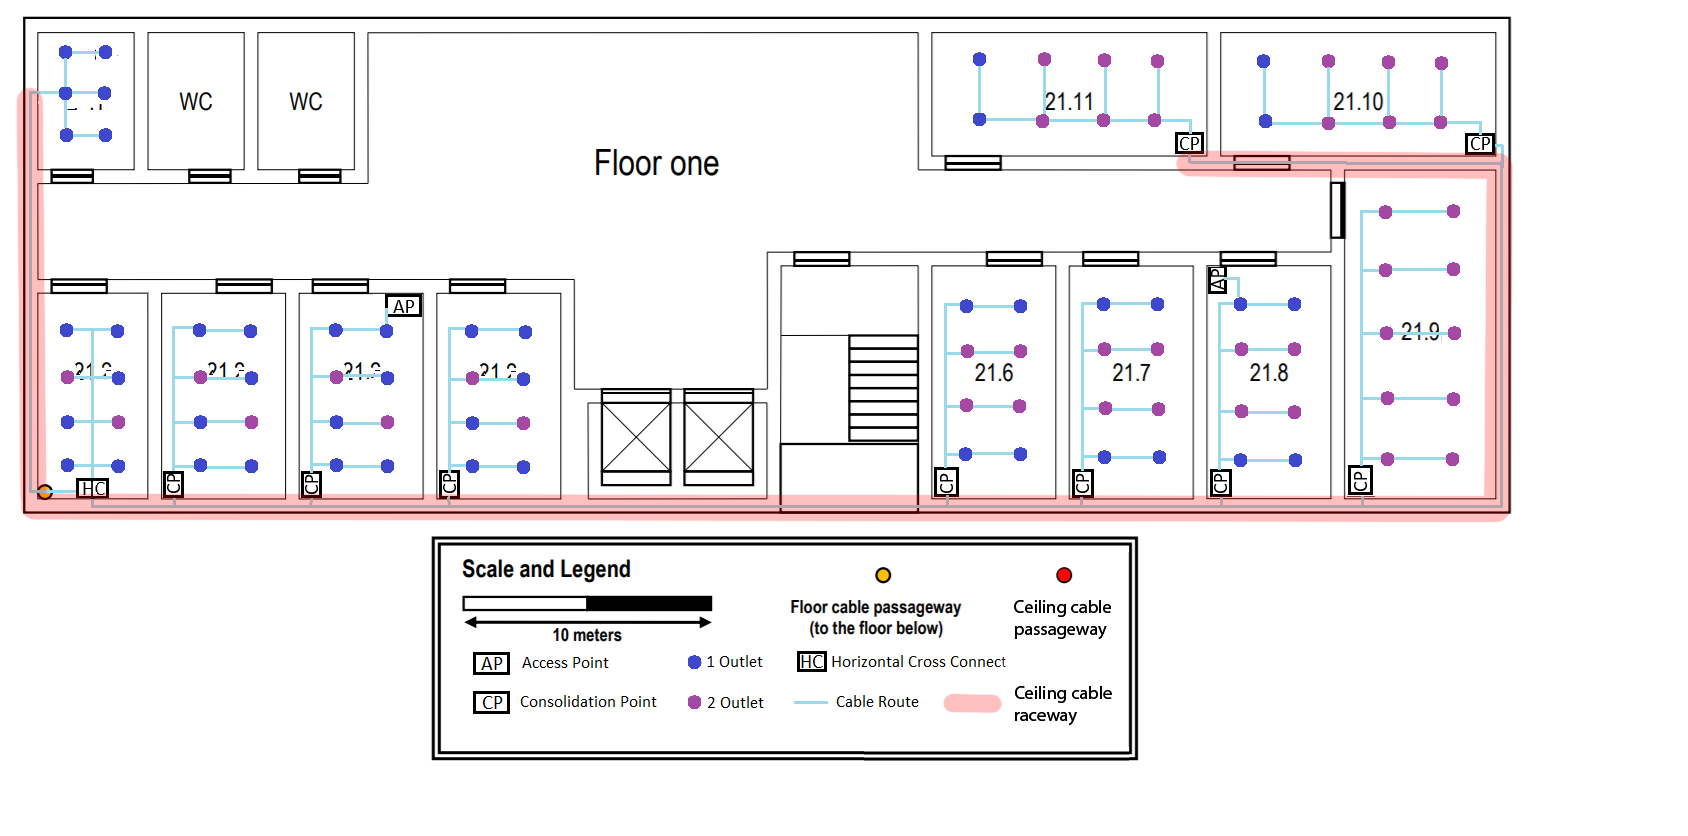
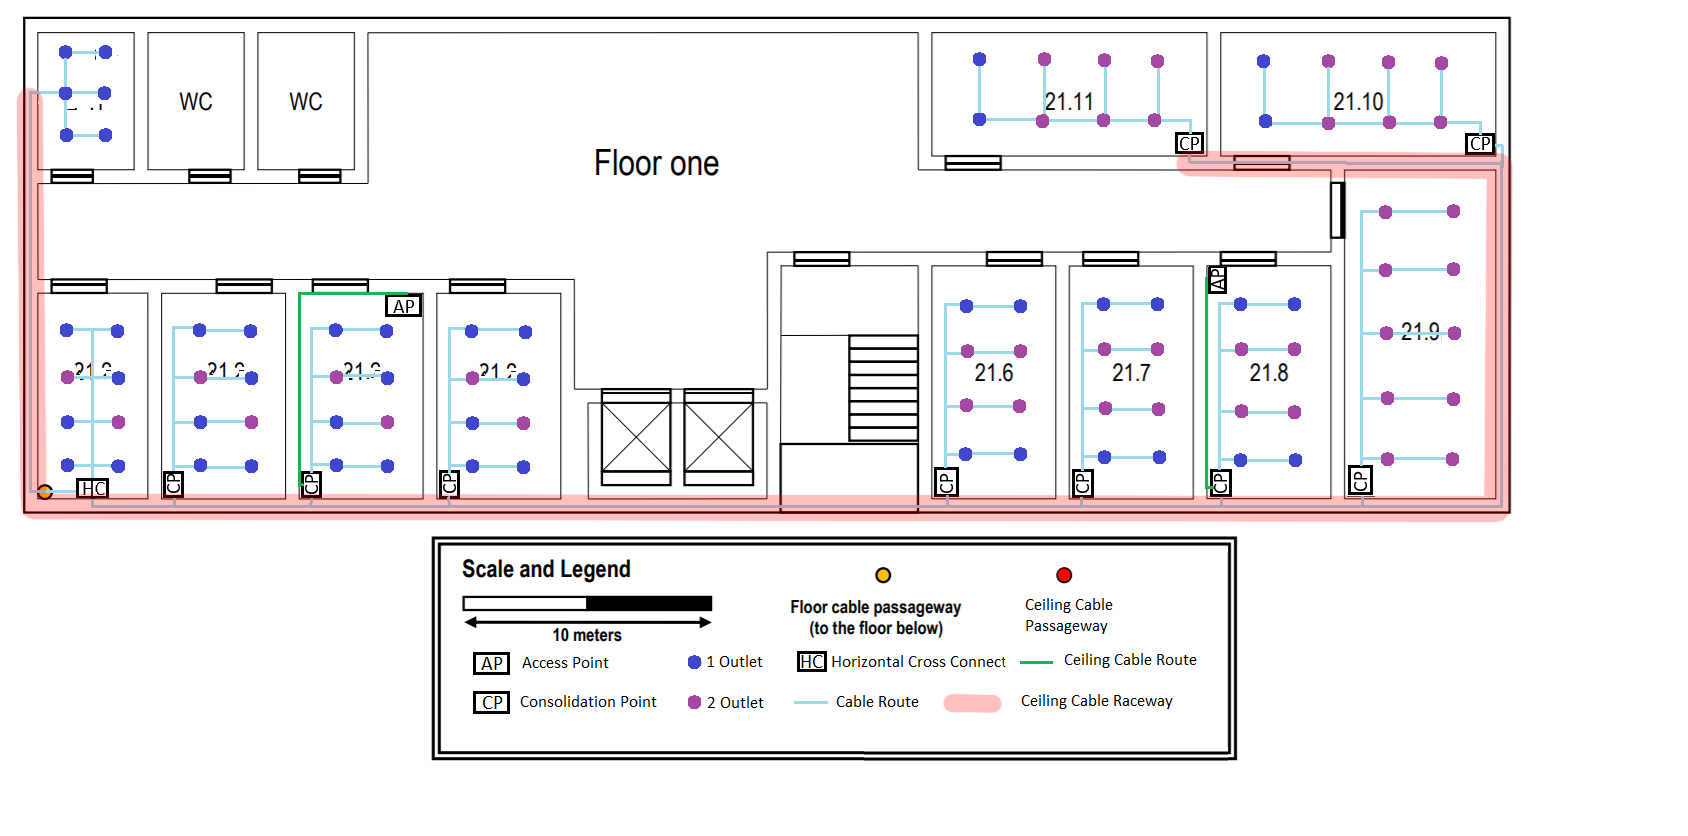
Adicionado retoques

Changed region(s): [[0.5853, 0.622, 0.7393, 0.933], [0.1848, 0.3421, 0.2464, 0.3732]]

diff --git a/doc/sprint1/1191430/README.md b/doc/sprint1/1191430/README.md
@@ -18,8 +18,6 @@ I decided to put the HC and the IC in the same closet to reduce the space needed
 
 Taking into account that the rule of at least 2 outlets per 10 m2 is followed.
 
-##### Scale: 2cm → 10m.
-
 #### Room 20.1:
    Dimensions:
    -. Length: 0.8cm → 4m | -. Width: 1.3cm → 6.5m
@@ -63,22 +61,30 @@ Service desk (Total cable): 30 m
 HC → CP [Room 20.3] (Total cable): 28 m
 HC → CP [Room 20.4] (Total cable): 43 m
 
-##### Total Cable CAT6A: 929 m
-##### Total Fiber Optic Cable Type Multimode: 31 m
+##### Total Cable CAT6A: 934 m
+##### Total Fiber Optic Cable Type Monomode: 41 m
 
 #### Inventory:
 
-* 1 IC
+* 1 IC:
+    - Fiber Optic Patch Panel 24
+    - Fiber Optic Switch 24
+
 * 1 HC:
-    - Switch Fiber Optic 48
-    - Patch Panel Fiber Optic 48
+    - Coper Switch 48
+    - Coper Patch Panel 48
+    - Fiber Optic Patch Panel 24
+    - Fiber Optic Switch 24
+
 * 2 CP:
-    - 2 Switch Fiber Optic 48
-    - 2 Patch Panel Fiber Optic 48
+    - 2 Coper Switch 48
+    - 2 Coper Patch Panel 48
+
 * 92 Outlets
 * 108 Patch Coords
-* 897 m of CAT6A cable
-* 31 m of Fiber Optic Cable Type Multimode
+* 934 m of CAT6A cable
+* 40 m of Fiber Optic Cable Type Monomode
+* 1m of Fiber Optic Cable Type Multimode
 * 2 Access Points
 
 ![GroundFloor.png](GroundFloor.png)
@@ -90,9 +96,6 @@ I decided to place the HC in room 21.2 because it is closer to the floor cable p
 I also decided to place consolidation points in all rooms even though it will increase the size of the cable used, it will reduce the load overload.
 
 Considering that the entire space must have access to wi-fi, I decided to strategically place 2 APs, one at the beginning of room 21.4 and another at the beginning of room 21.8, because their range is 50m in diameter, being possible to cover the entire floor.
-
-
-##### Scale: 2cm → 10m.
 
 #### Room 21.1:
 Is a storage area and network outlets are not required there
@@ -206,23 +209,25 @@ HC → CP [Room 21.9] (Total cable): 56 m
 HC → CP [Room 21.10] (Total cable): 77 m
 HC → CP [Room 21.11] (Total cable): 88 m
 
-##### Total Cable CAT6A: 1327 m
-##### Total Fiber Optic Cable Type Multimode: 52 m
+##### Total Cable CAT6A: 1361  m
+##### Total Fiber Optic Cable Type Multimode: 50 m
 
 #### Inventory:
 
 * 1 HC:
-    - Switch Fiber Optic 48
-    - Patch Panel Fiber Optic 48
+    - Fiber Optic Switch 24
+    - Fiber Optic Patch Panel 24
+    - Coper Switch 48
+    - Coper Patch Panel 48
+
 * 9 CP:
-    - 8 Switch Fiber Optic 24
-    - 8 Patch Panel Fiber Optic 24
-    - 1 Switch Fiber Optic 48
-    - 1 Patch Panel Fiber Optic 48
+    - 9 Coper Switch 24
+    - 9 Coper Patch Panel 24
+
 * 124 Outlets
 * 148 Patch Coords
-* 1312 m of CAT6A cable
-* 52 m of Fiber Optic Cable Type Multimode
+* 1361 m of CAT6A cable
+* 50 m of Fiber Optic Cable Type Multimode
 * 2 Access Points
 
 ![FloorOne.png](FloorOne.png)
